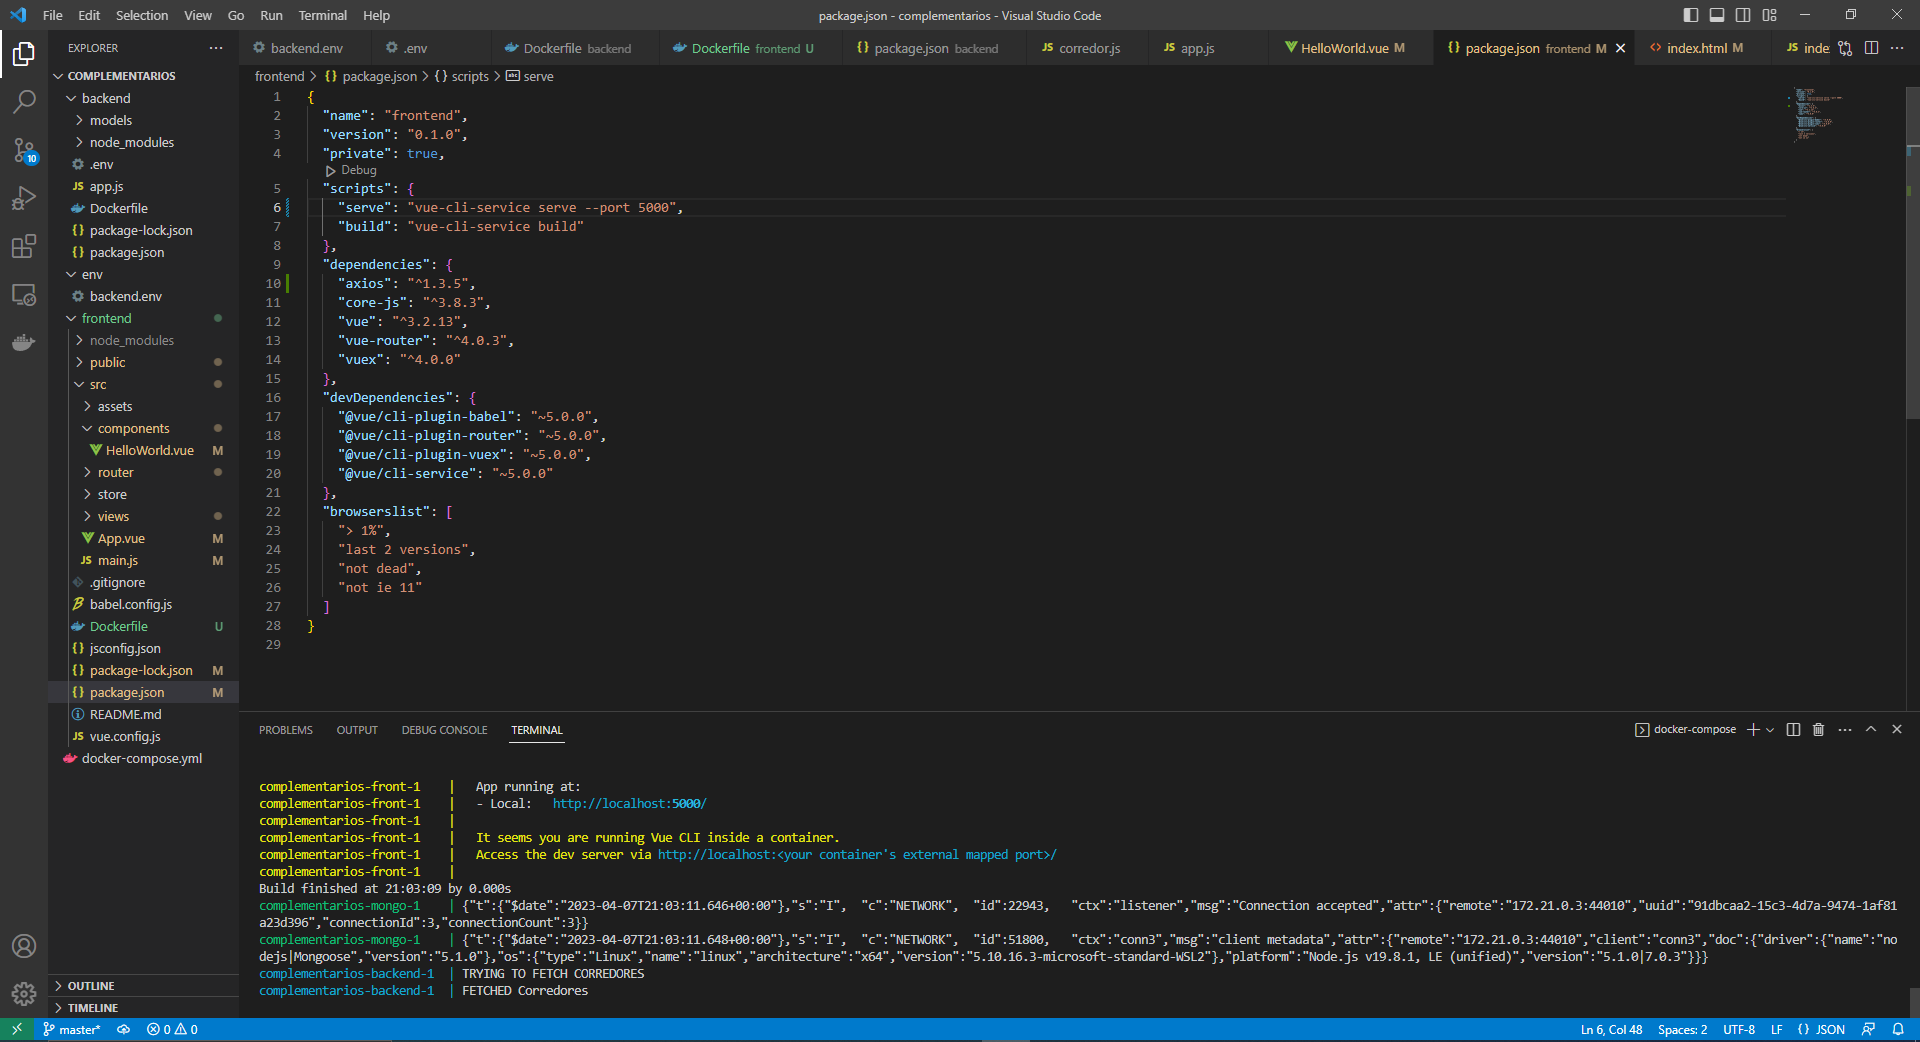
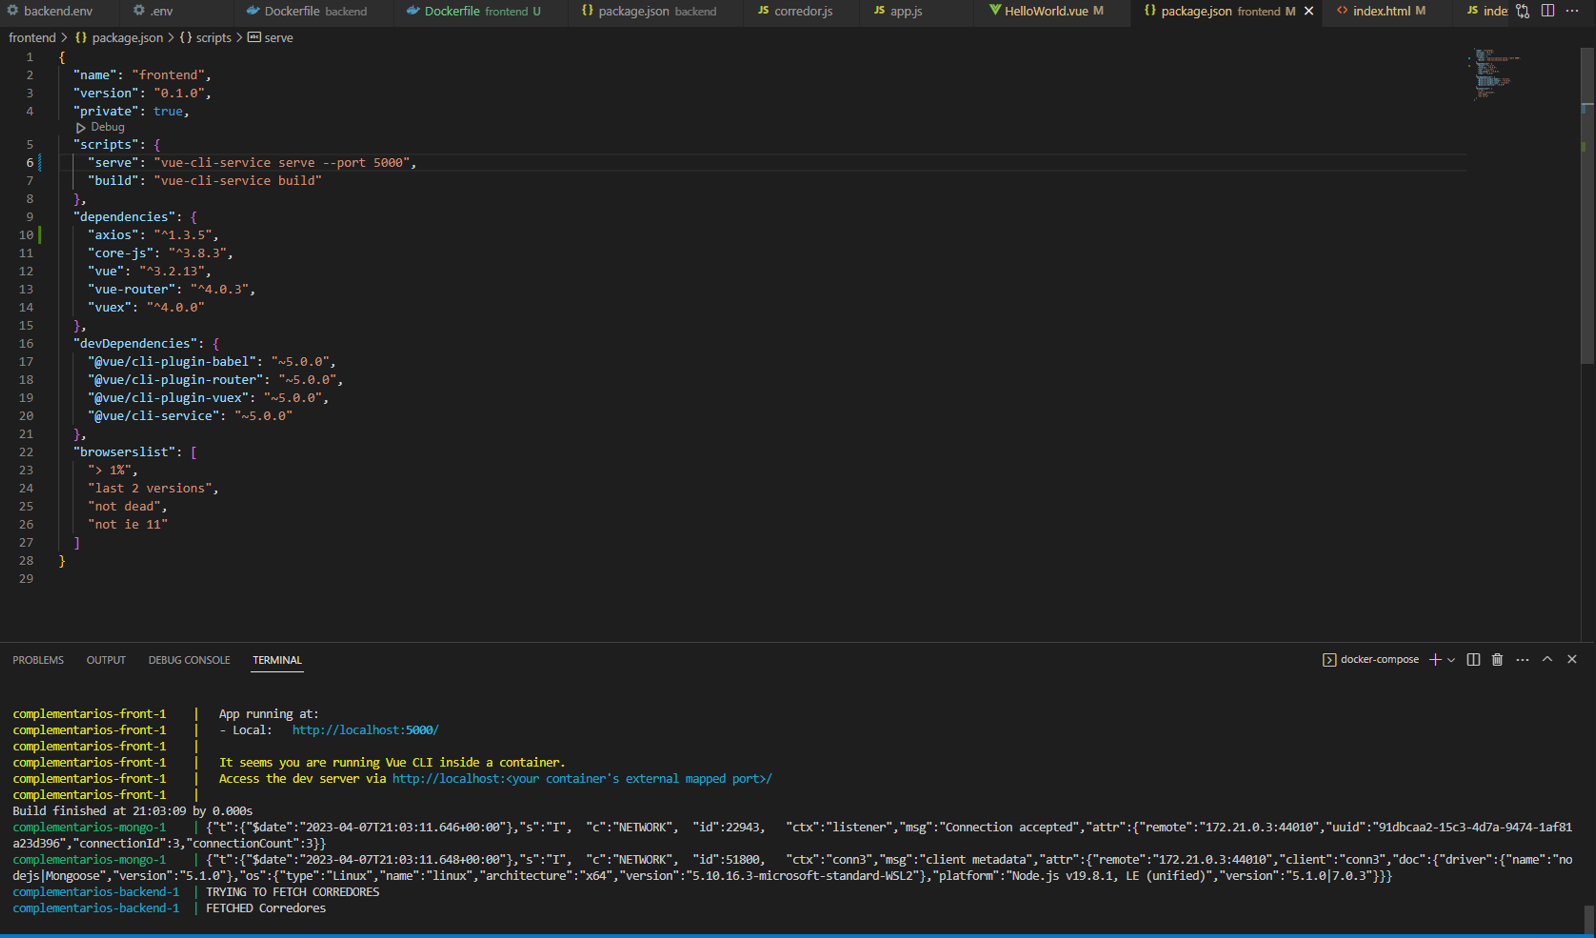
Arreglando imagenes

diff --git a/Trabajo Docker 1/Readme.md b/Trabajo Docker 1/Readme.md
@@ -1,6 +1,6 @@
 ## ScreenShots
 
-<img src="assets/screenshot/frontend.PNG" height="800em" />
+<img src="assets/screenshot/frontend.png" height="600em" />
 
-<img src="assets/screenshot/backend.PNG" height="800em" />
+<img src="assets/screenshot/backend.png" height="600em" />
 
